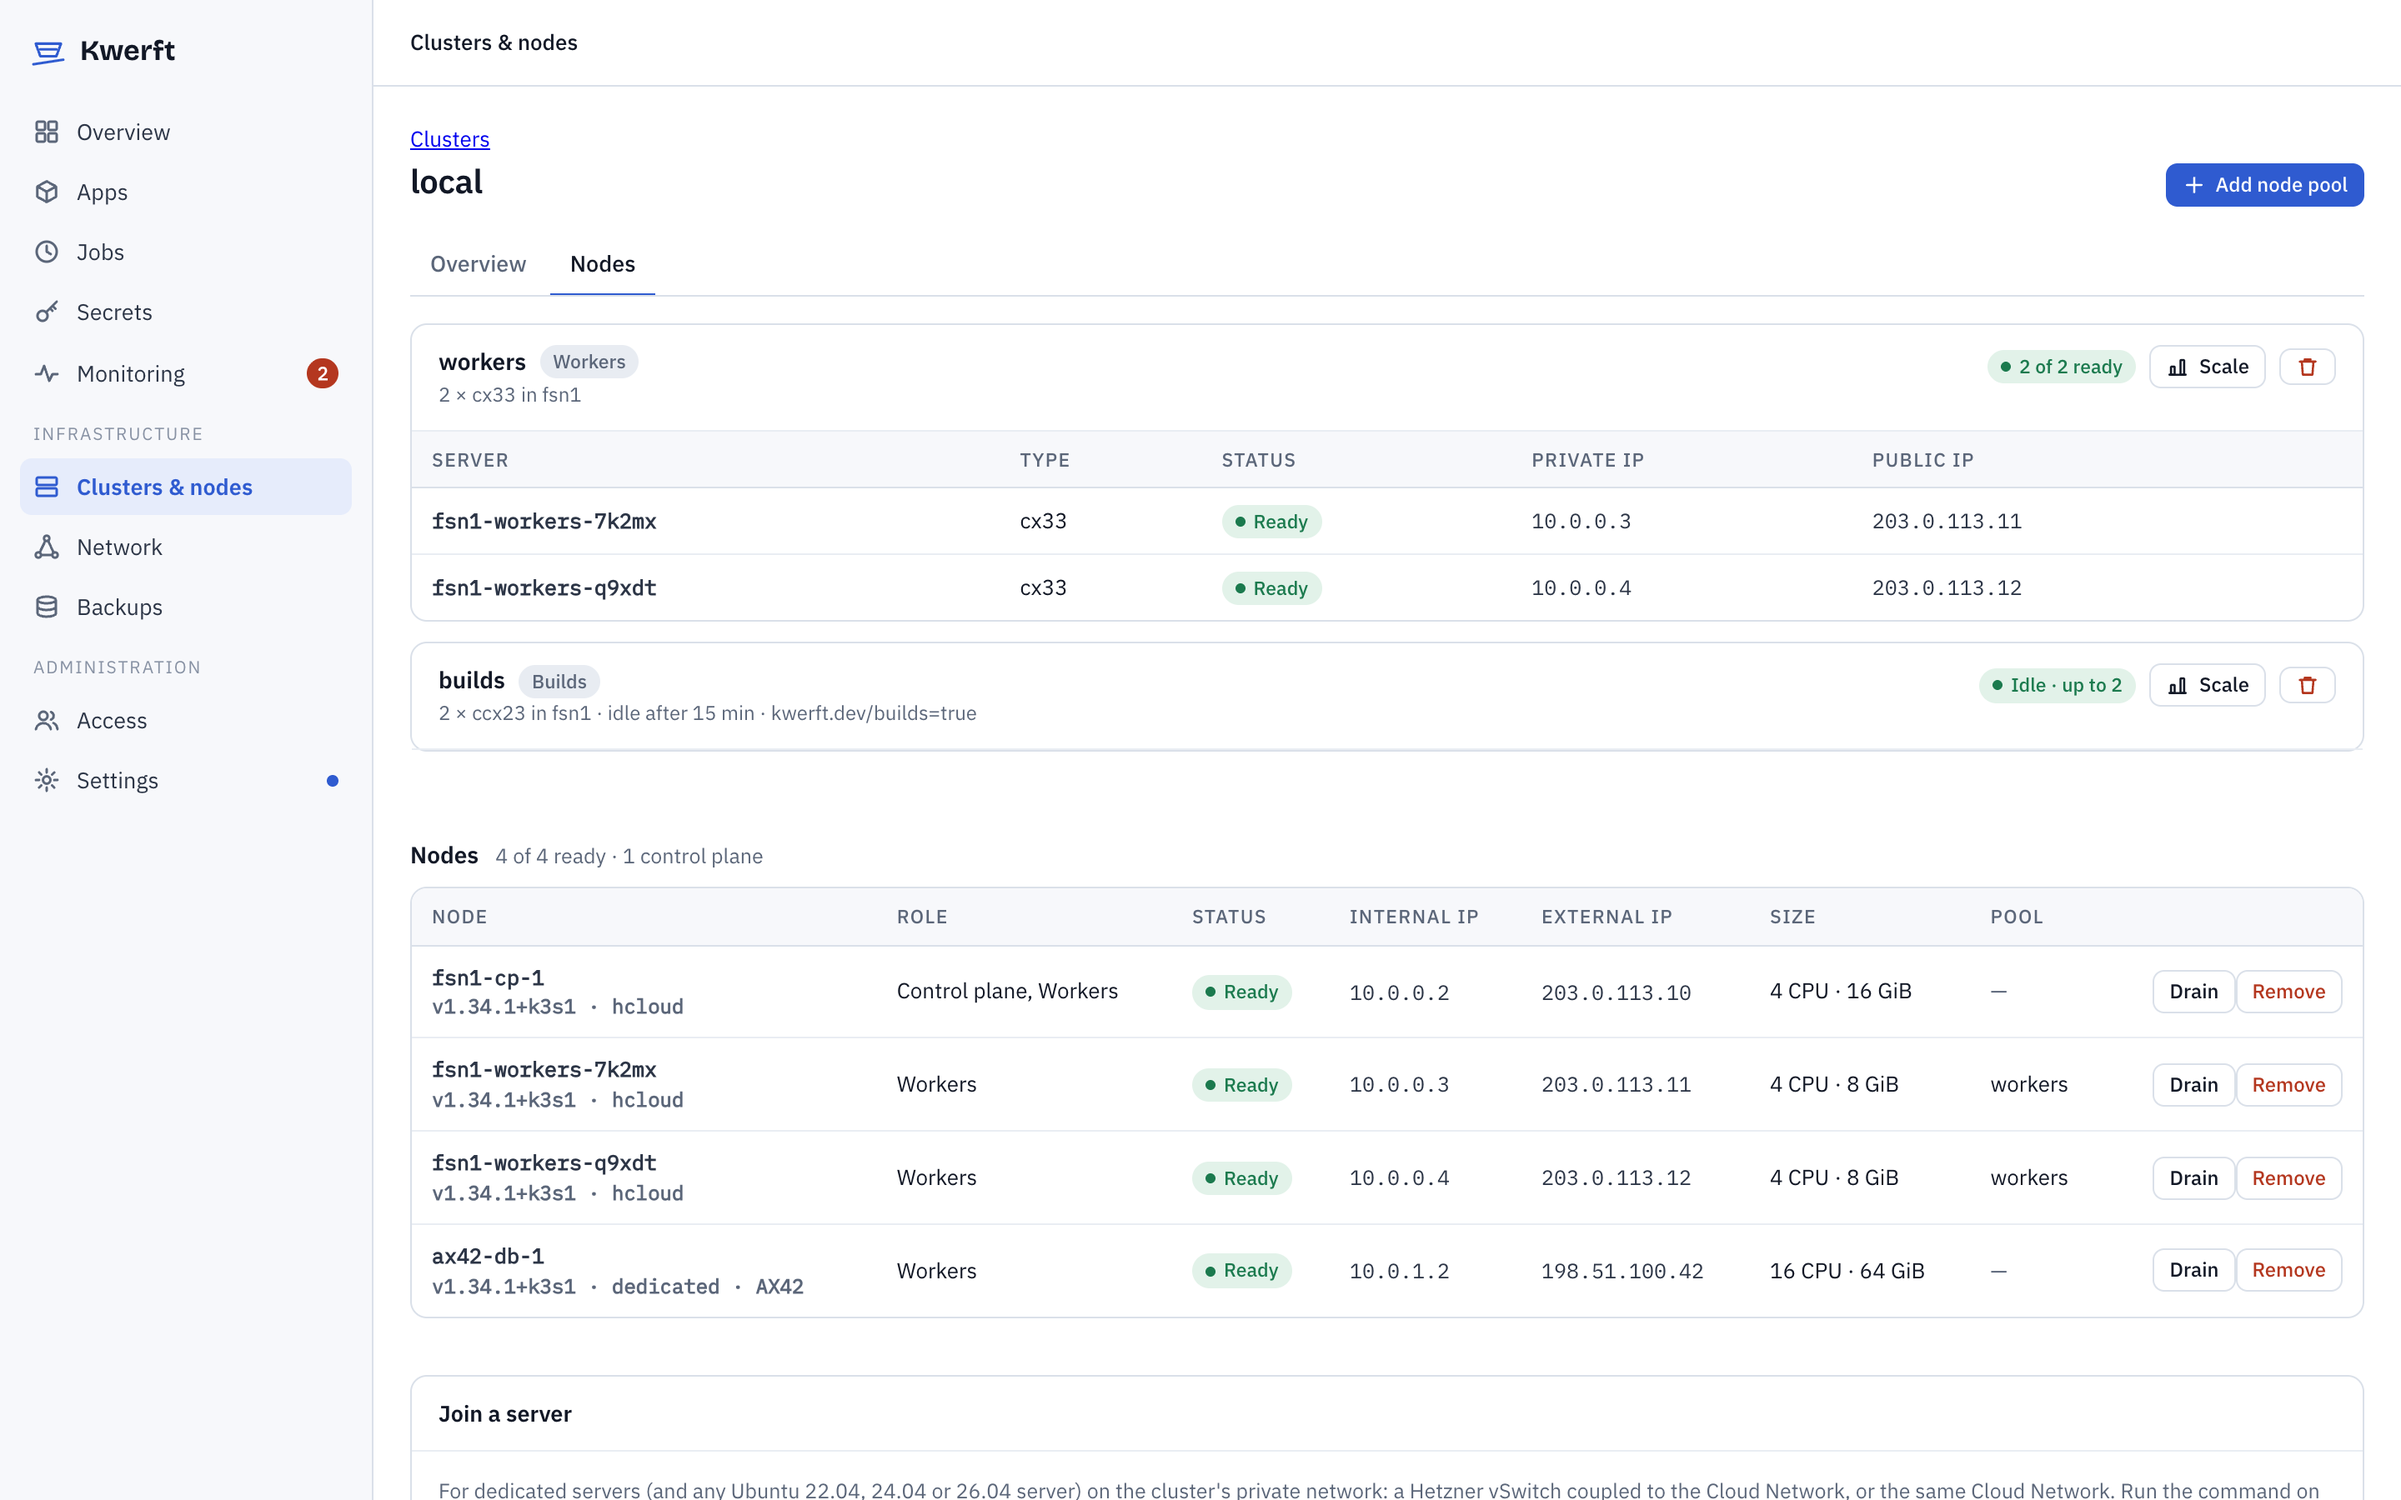
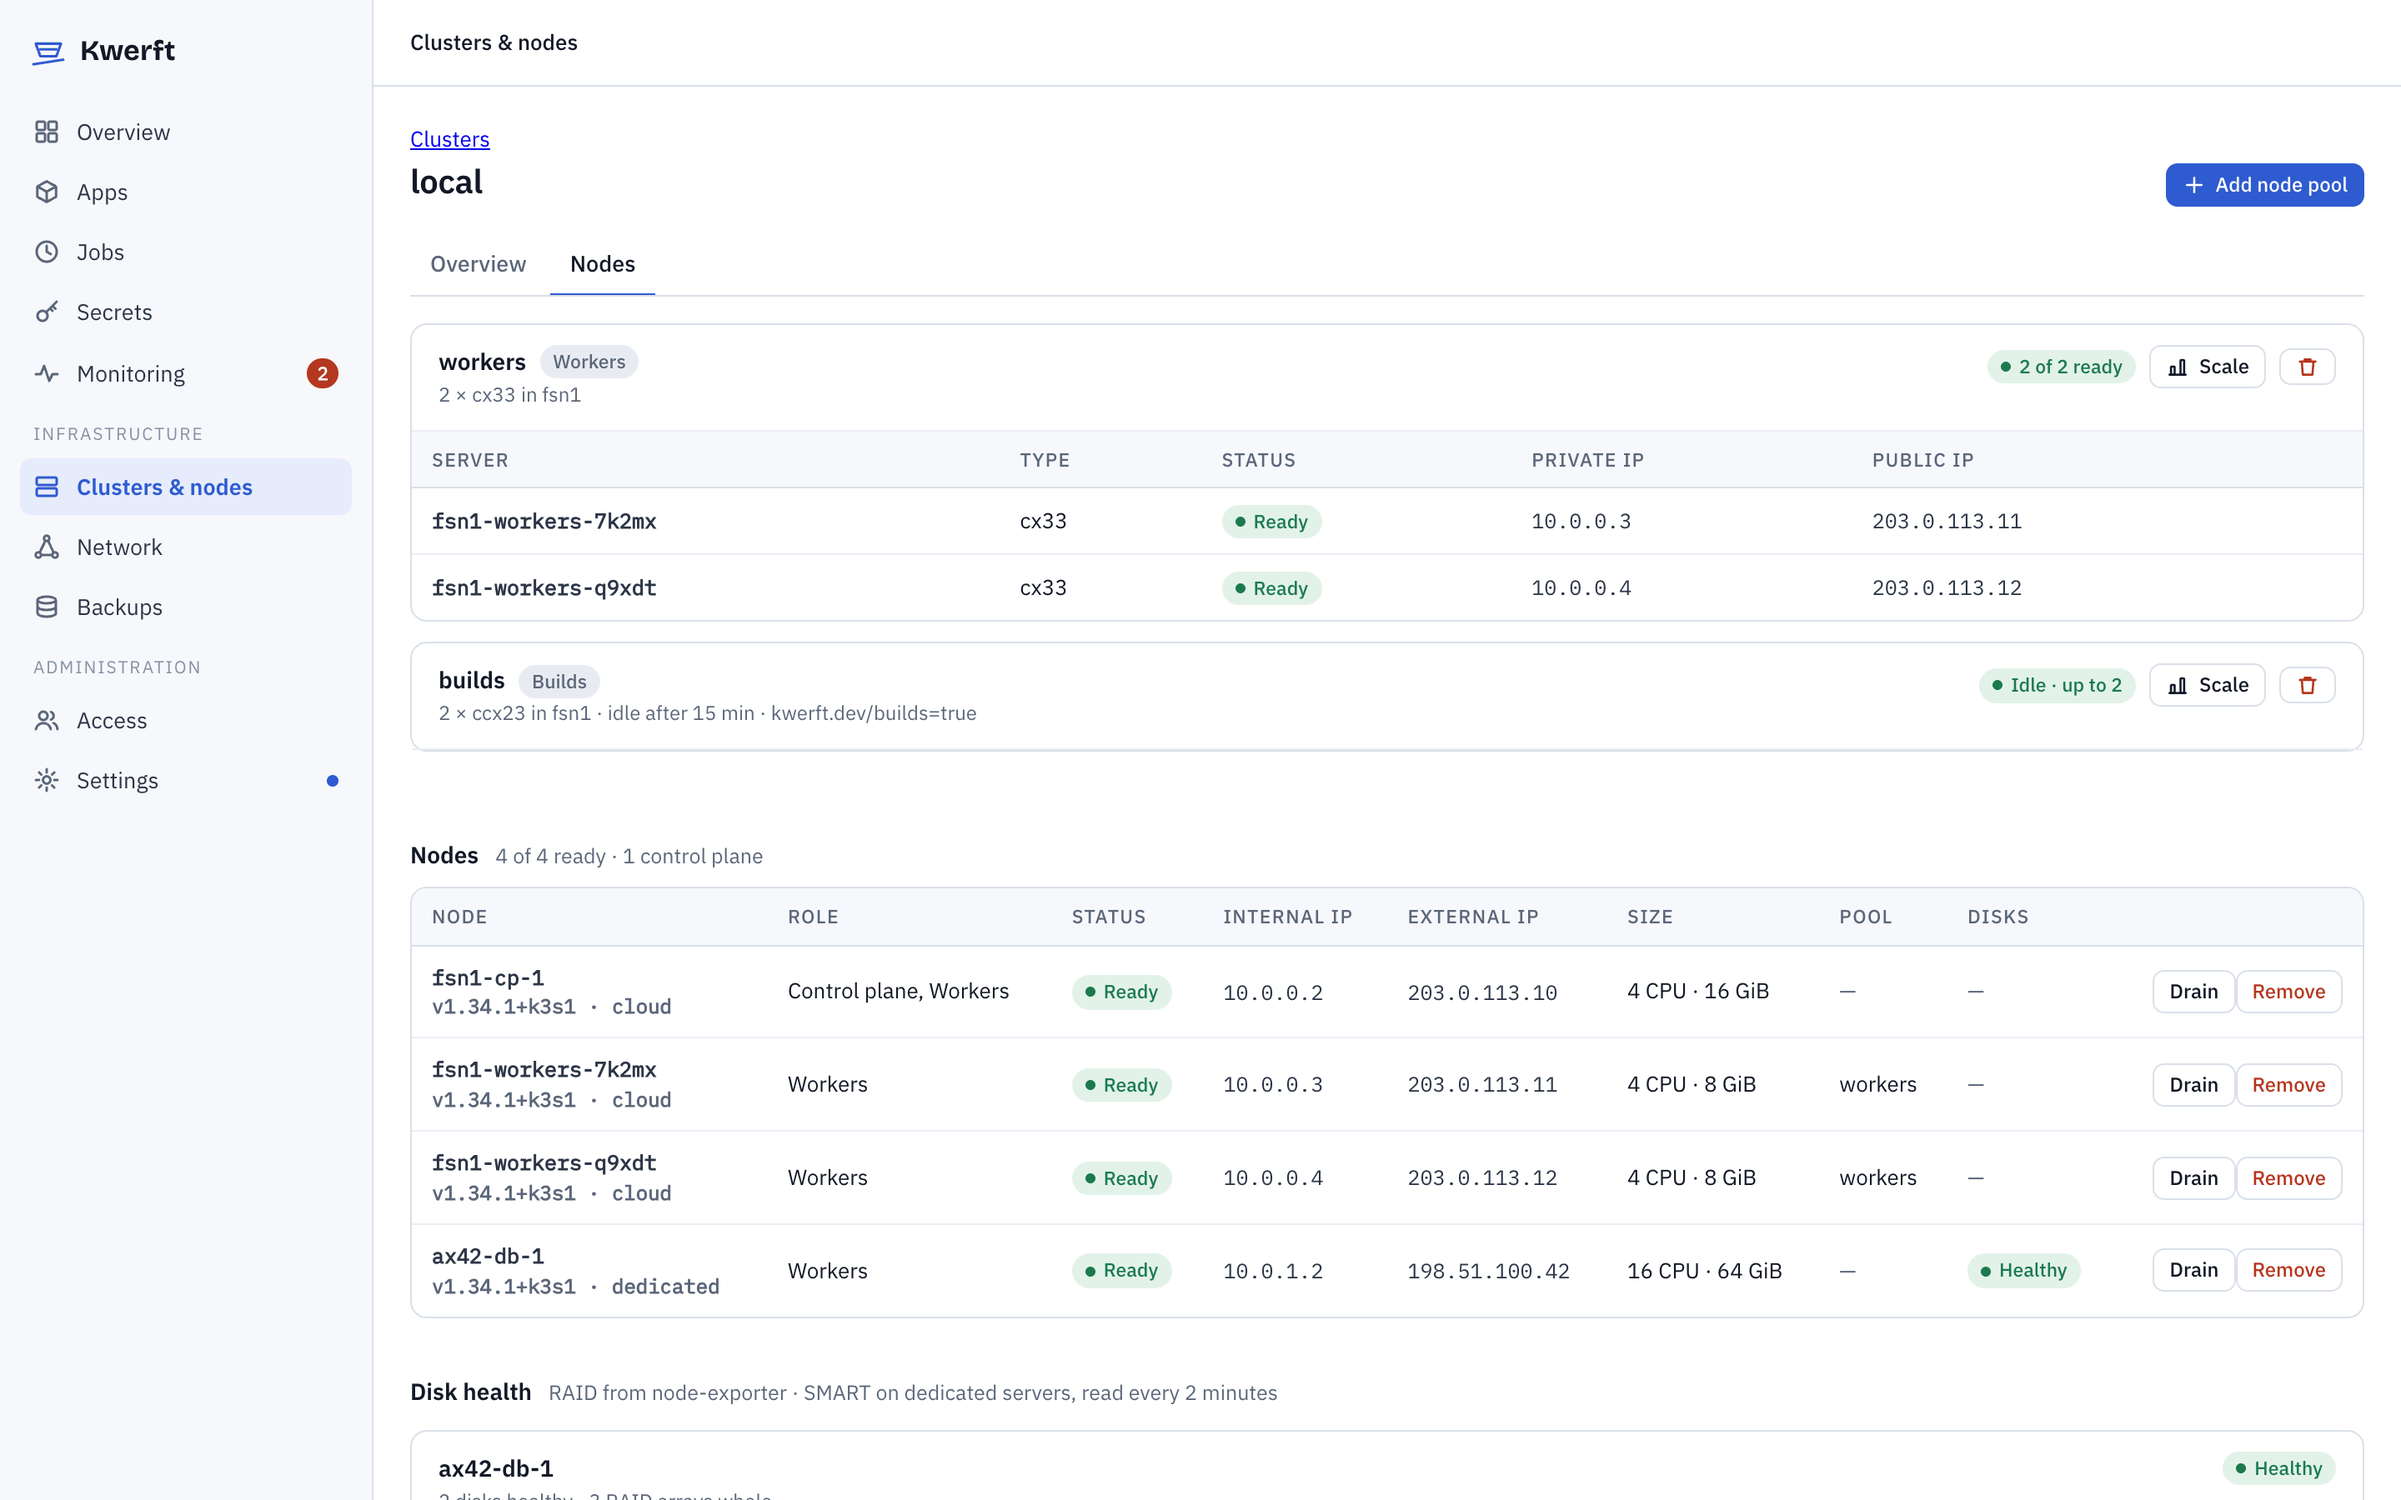
Infrastructure map and rc.9 screenshots
- The Overview's infrastructure map (in the v0.6 candidates since rc.2):
  a homepage section with Traffic and Placement shots, a help page
  (Overview and infrastructure map), and the roadmap, Concepts and
  Installer lists.
- Screenshots from a v0.6.0-rc.9 console build: disk health on the Nodes
  page (new disk-health shot), an out-of-memory job run, the Overview with
  Show on map; the mock answers /topology, the disk rules and OOM status.

diff --git a/src/content/docs/overview.md b/src/content/docs/overview.md
@@ -1,0 +1,35 @@
+---
+title: Overview and infrastructure map
+description: What the Overview lists under Needs attention, and how to read the infrastructure map of a cluster's apps, jobs, volumes, domains, traffic rules and firewall.
+group: Operate
+order: 0
+---
+
+The **Overview** is the console's start page. It lists what needs your attention and, below it, draws a map of one cluster: what reaches your apps from the internet, what they talk to, and where everything runs.
+
+<div class="note">The infrastructure map needs Kwerft v0.6.0, which is in release candidates (from rc.2). The default install command installs v0.4.0; to try it, <a href="/docs/installer#pin-a-version">pin v0.6.0-rc.9</a>.</div>
+
+## Needs attention
+
+**Needs attention** collects what you should act on: firing alerts, apps that are not running as they should, failed builds, scheduled jobs whose last run failed (including a run that ran out of memory), domains whose certificate is not ready, and new releases of Kwerft or Kubernetes when they are available. Each item links to the page that deals with it. Items that are drawn on the map also have **Show on map**, which opens their project on the map and selects them.
+
+## The infrastructure map
+
+The map shows one cluster at a time; with more than one cluster, pick it in the cluster menu. It has two lenses over the same objects:
+
+- **Traffic** reads from left to right: the internet, the server firewall, the gateway, your domains, the apps grouped by project, their volumes, and on the right what they reach on the internet. Traffic rules and the apps' allow lists are arrows. Their flow speed follows the live counts from Hubble, and dropped connections are drawn in red.
+- **Placement** shows your servers with what runs on each: the apps' pods, the last runs of jobs, and the volumes.
+
+Switching lenses moves each item from one layout to the other, so you can follow an app from where its traffic comes from to the server it runs on.
+
+### Finding your way
+
+- **Hover** over an item to highlight what it touches; **click** it to keep that focus and open the inspector beside the map. The inspector lists the item's inbound and outbound rules with their counts, and links to the pages that change them, such as the app, the traffic rule or the firewall.
+- Pick one project in the project menu (**All projects** by default), or open a collapsed project with **Expand project**. Large clusters open with every project collapsed.
+- **Show** turns layers on and off: jobs, volumes, domains, traffic rules and the firewall.
+- **Only problems** keeps what is failing or dropping traffic.
+- Drag the background to pan. **Zoom in**, **Zoom out** and **Fit to view** are next to the map; Ctrl or ⌘ with the scroll wheel zooms too.
+
+### What you see
+
+The map shows what you may see elsewhere in the console: the projects you have access to, and pods read as you. The servers and the firewall are on the map for owners and admins only. Volume fill and server usage come from the cluster's metrics, when they answer.

diff --git a/src/content/docs/installer.md b/src/content/docs/installer.md
@@ -38,7 +38,7 @@ A pinned script installs its own version. To try what is in release candidates, 
 curl -fsSL https://kwerft.dev/v0.6.0-rc.9/install.sh | sudo bash -s -- --domain ops.example.com --yes
 ```
 
-v0.6.0-rc.9 contains everything from the v0.5.0 release candidates ([Clusters & nodes](/docs/clusters-and-nodes), the Hetzner Cloud integration and several of the flags below) and adds [backups](/docs/backups), [upgrades from the console](/docs/upgrades), [secret sets](/docs/secrets), and [templates and the Compose import](/docs/templates-and-compose). Release candidates are for trying things out; expect changes before the release.
+v0.6.0-rc.9 contains everything from the v0.5.0 release candidates ([Clusters & nodes](/docs/clusters-and-nodes), the Hetzner Cloud integration and several of the flags below) and adds [backups](/docs/backups), [upgrades from the console](/docs/upgrades), [secret sets](/docs/secrets), [templates and the Compose import](/docs/templates-and-compose), the [infrastructure map](/docs/overview) and [disk health](/docs/clusters-and-nodes#disk-health) for dedicated servers. Release candidates are for trying things out; expect changes before the release.
 
 `--version` picks the Kwerft release (console image and Helm chart) independently of the script; it takes `0.4.0` or `v0.4.0`. The installer checks that the release is published before it changes anything and stops with exit code 50 if it is not. Prefer the script of the release you install, since flags and stages change between releases.
 

diff --git a/src/content/docs/concepts.md b/src/content/docs/concepts.md
@@ -99,7 +99,9 @@ Kwerft is pre-beta. The latest release is v0.4.0. The release candidate v0.6.0-r
 - [backups](/docs/backups) of projects, volumes and the console to Object Storage, encrypted with a recovery key, and a full restore onto a new server,
 - [upgrades from the console](/docs/upgrades) with automatic rollback, and Kubernetes upgrades node by node,
 - [secret sets](/docs/secrets) with write-only values,
-- [templates and the Docker Compose import](/docs/templates-and-compose).
+- [templates and the Docker Compose import](/docs/templates-and-compose),
+- an [infrastructure map](/docs/overview#the-infrastructure-map) of each cluster on the Overview,
+- [disk health](/docs/clusters-and-nodes#disk-health) for dedicated servers: RAID, SMART and alerts.
 
 An upgrade from the console has run on a real server (rc.8 to rc.9); backups, the full restore and Kubernetes upgrades have been tested against simulated storage and clusters, and their end-to-end runs on real servers are still to come. To try the release candidate, [pin v0.6.0-rc.9](/docs/installer#pin-a-version).
 

diff --git a/tools/screenshots/README.md b/tools/screenshots/README.md
@@ -43,8 +43,12 @@ when the shots run; charts and logs come from a seeded generator, so runs look
 the same.
 
 Attention items on purpose: two firing alerts (`shop/worker` memory high, the
-`backups` volume filling up), a failed `nightly-report` run, and dropped
-connections from `shop/api` to `shop/payments` on Network › Traffic rules.
+`backups` volume filling up), a `nightly-report` run killed for running out of
+memory (limit 256Mi), and dropped connections from `shop/worker` to
+`shop/payments` on Network › Traffic rules. The AX42's disks are healthy: a
+RAID1 (md0–md2) over two NVMe drives, SMART passed, 34 % and 31 % worn
+(`disk-health` shows the Nodes page scrolled to them). The Overview's
+infrastructure map (`/topology`) is assembled from the same fixtures.
 
 The shell (terminal shot) is a mocked WebSocket in `shoot.mjs`; its content is
 in `mock/terminal.mjs`, which also serves the recordings' `.cast` files.
